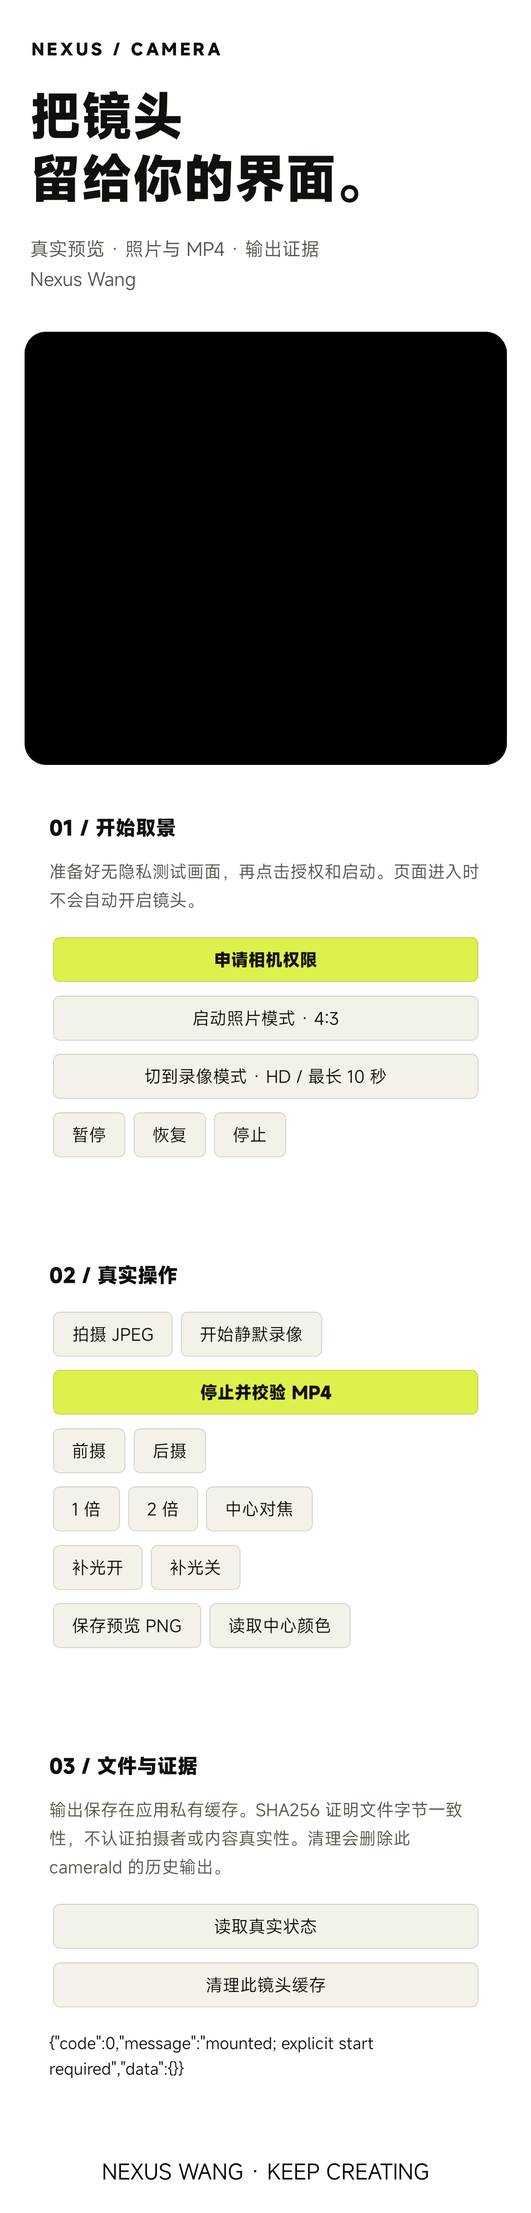
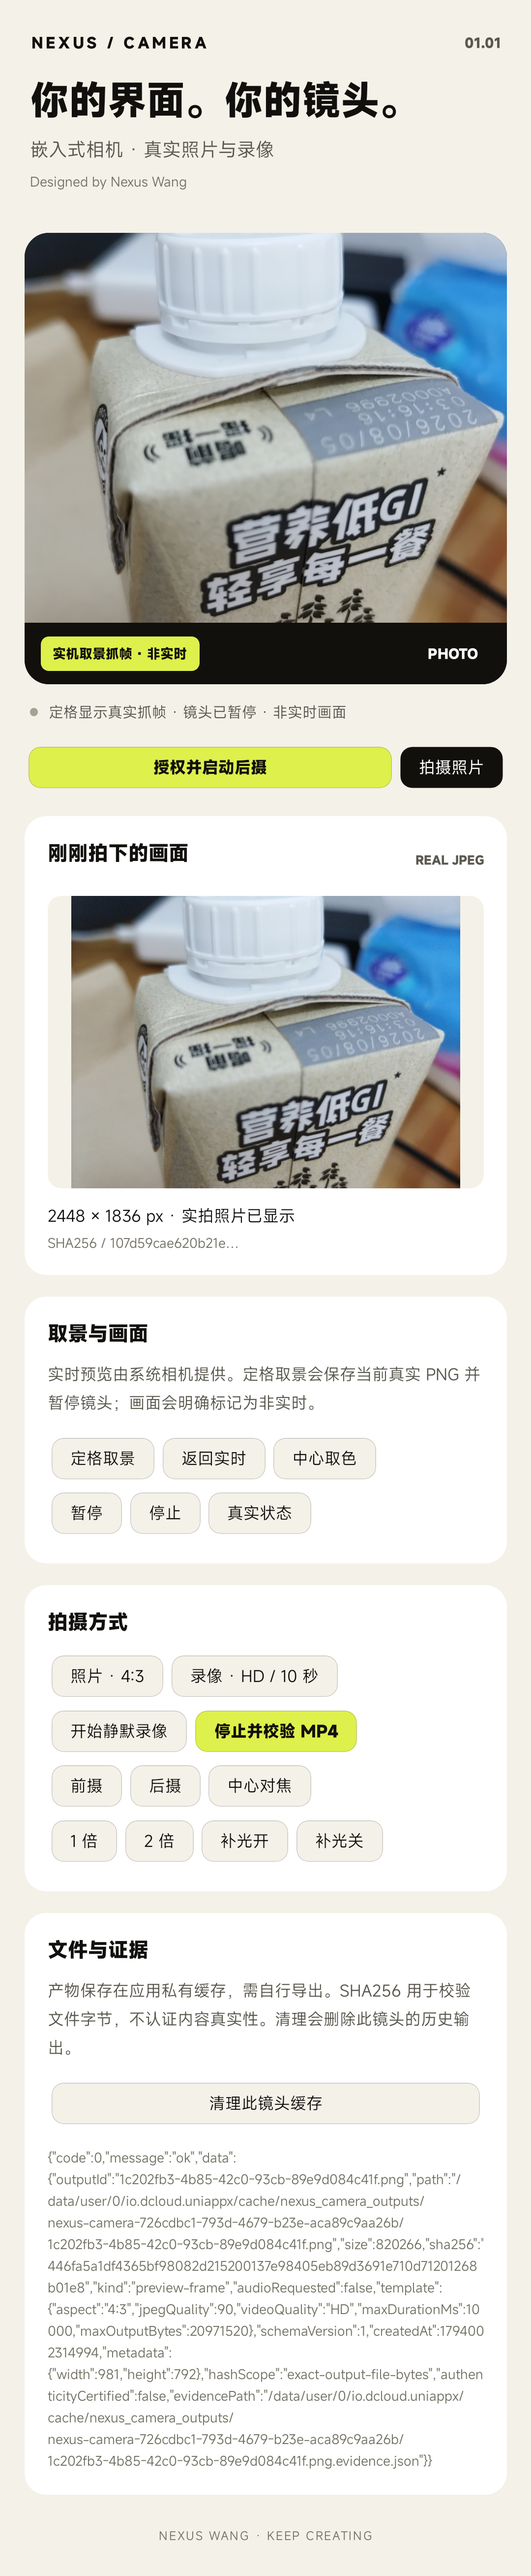
Publish camera 1.0.1 real capture and picker documentation

diff --git a/README.md b/README.md
@@ -15,7 +15,7 @@ Nexus Wang 的 uni-app 插件公开文档集合与画廊。
 <table>
 <tr>
 <td width="33%" valign="top"><a href="docs/aiko-scan-pro.md"><img src="assets/covers/aiko-scan-pro.png" alt="Nexus 原生扫码封面" width="250"></a><br><strong>Nexus 原生扫码</strong><br><sub>已上架</sub><br><a href="docs/aiko-scan-pro.md">说明文档</a> · <a href="https://awak3n1ngone.github.io/nexus-uniapp-plugins/#plugin=aiko-scan-pro">在线详情</a> · <a href="https://ext.dcloud.net.cn/plugin?name=aiko-scan-pro">插件市场</a></td>
-<td width="33%" valign="top"><a href="docs/nexus-camera-core.md"><img src="assets/covers/nexus-camera-core.png" alt="Nexus 自定义相机封面" width="250"></a><br><strong>Nexus 自定义相机</strong><br><sub>已上架</sub><br><a href="docs/nexus-camera-core.md">说明文档</a> · <a href="https://awak3n1ngone.github.io/nexus-uniapp-plugins/#plugin=nexus-camera-core">在线详情</a> · <a href="https://ext.dcloud.net.cn/plugin?name=nexus-camera-core">插件市场</a></td>
+<td width="33%" valign="top"><a href="docs/nexus-camera-core.md"><img src="assets/covers/nexus-camera-core.png" alt="Nexus 自定义相机封面" width="250"></a><br><strong>Nexus 自定义相机</strong><br><sub>已上架 · 验证范围见说明</sub><br><a href="docs/nexus-camera-core.md">说明文档</a> · <a href="https://awak3n1ngone.github.io/nexus-uniapp-plugins/#plugin=nexus-camera-core">在线详情</a> · <a href="https://ext.dcloud.net.cn/plugin?name=nexus-camera-core">插件市场</a></td>
 <td width="33%" valign="top"><a href="docs/nexus-file-workflow.md"><img src="assets/covers/nexus-file-workflow.png" alt="Nexus 文件选择与附件工作流封面" width="250"></a><br><strong>Nexus 文件选择与附件工作流</strong><br><sub>已上架 · 真机验证范围见说明</sub><br><a href="docs/nexus-file-workflow.md">说明文档</a> · <a href="https://awak3n1ngone.github.io/nexus-uniapp-plugins/#plugin=nexus-file-workflow">在线详情</a> · <a href="https://ext.dcloud.net.cn/plugin?name=nexus-file-workflow">插件市场</a></td>
 </tr>
 <tr>

diff --git a/docs/nexus-file-workflow.md b/docs/nexus-file-workflow.md
@@ -282,6 +282,12 @@ export type NexusFileOptions = {
 | 9122007 | 附件版本冲突 |
 | 9122008 | 宿主Context不可用 |
 
+## 本轮发布收尾记录（2026-11-07）
+
+已补齐新版封面和 1.1 演示页截图。真实系统单选、跨 UID 有界导入自生成的59字节文本、独立SHA256、附件版本链及持久授权登记的已通过范围保持不变。
+
+本机真实系统双文件多选及用户返回取消仍未确认通过；受控Activity双文件/取消夹具仅已准备，未执行，不计入通过数。`multiple:true`允许多选，调用方应读取实际`items/count`，不能假定`maxCount`就是本次返回数。系统选择界面的差异、其他机型和Provider仍需按业务环境验收。
+
 ## 验收与限制
 
 应以真实Android检查完整UTF8/控制字节、SHA256、超限与错误哈希不留目标、越界路径拒绝、版本冲突与历史内容不变。已授权URI导入需另测实际Provider、授权回收和进程重启；内部测试Provider不等于所有系统选择器/跨UID权限验收。
